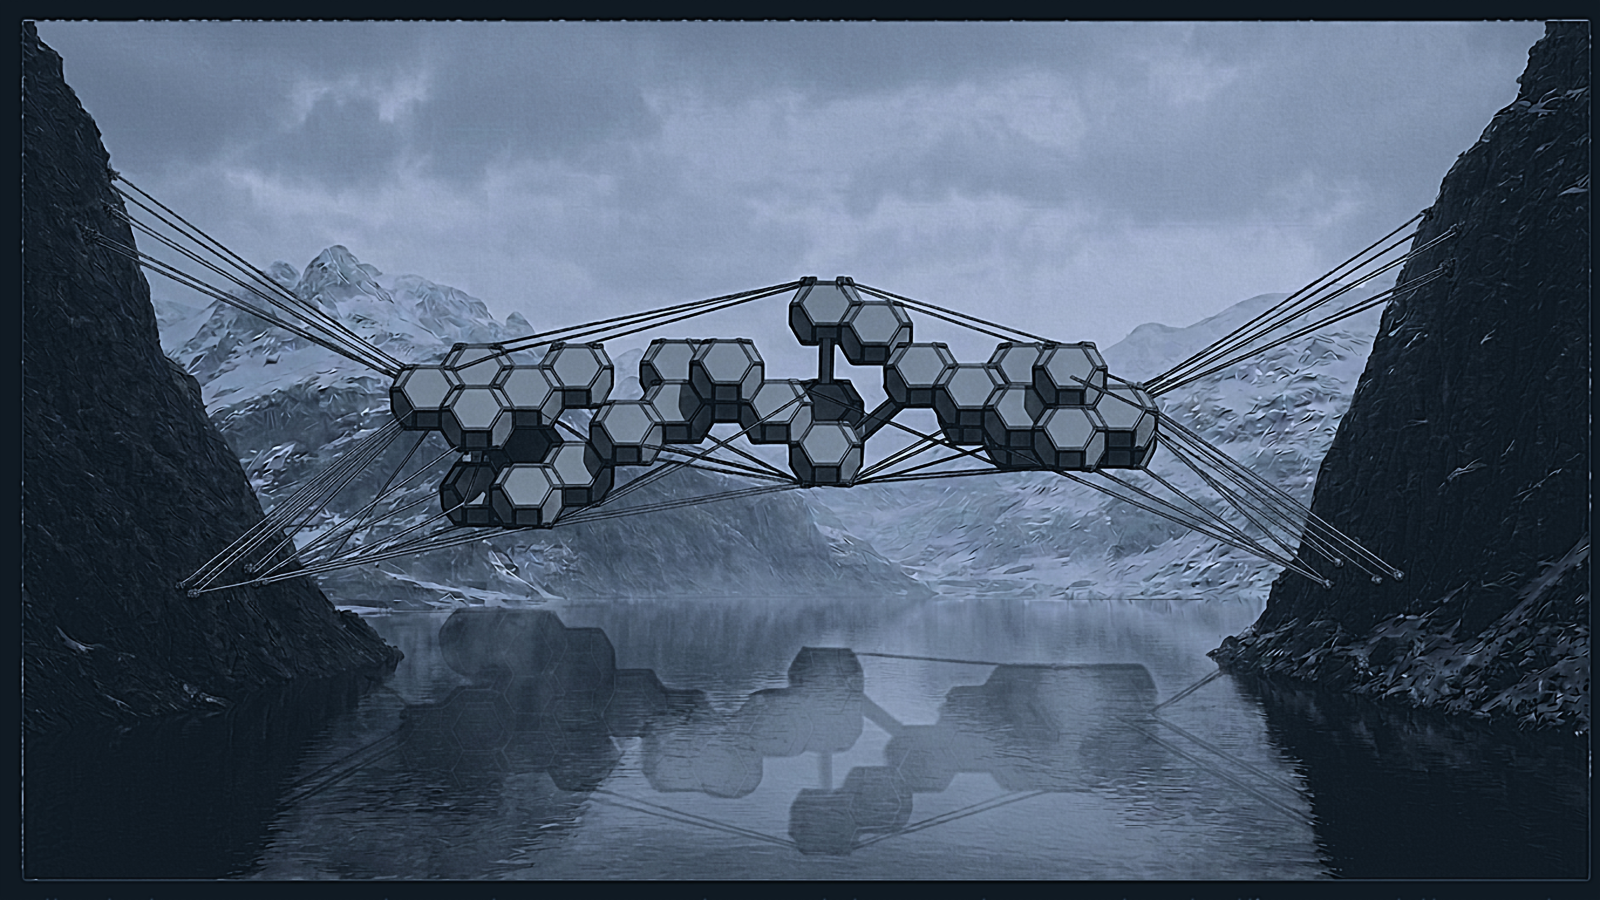
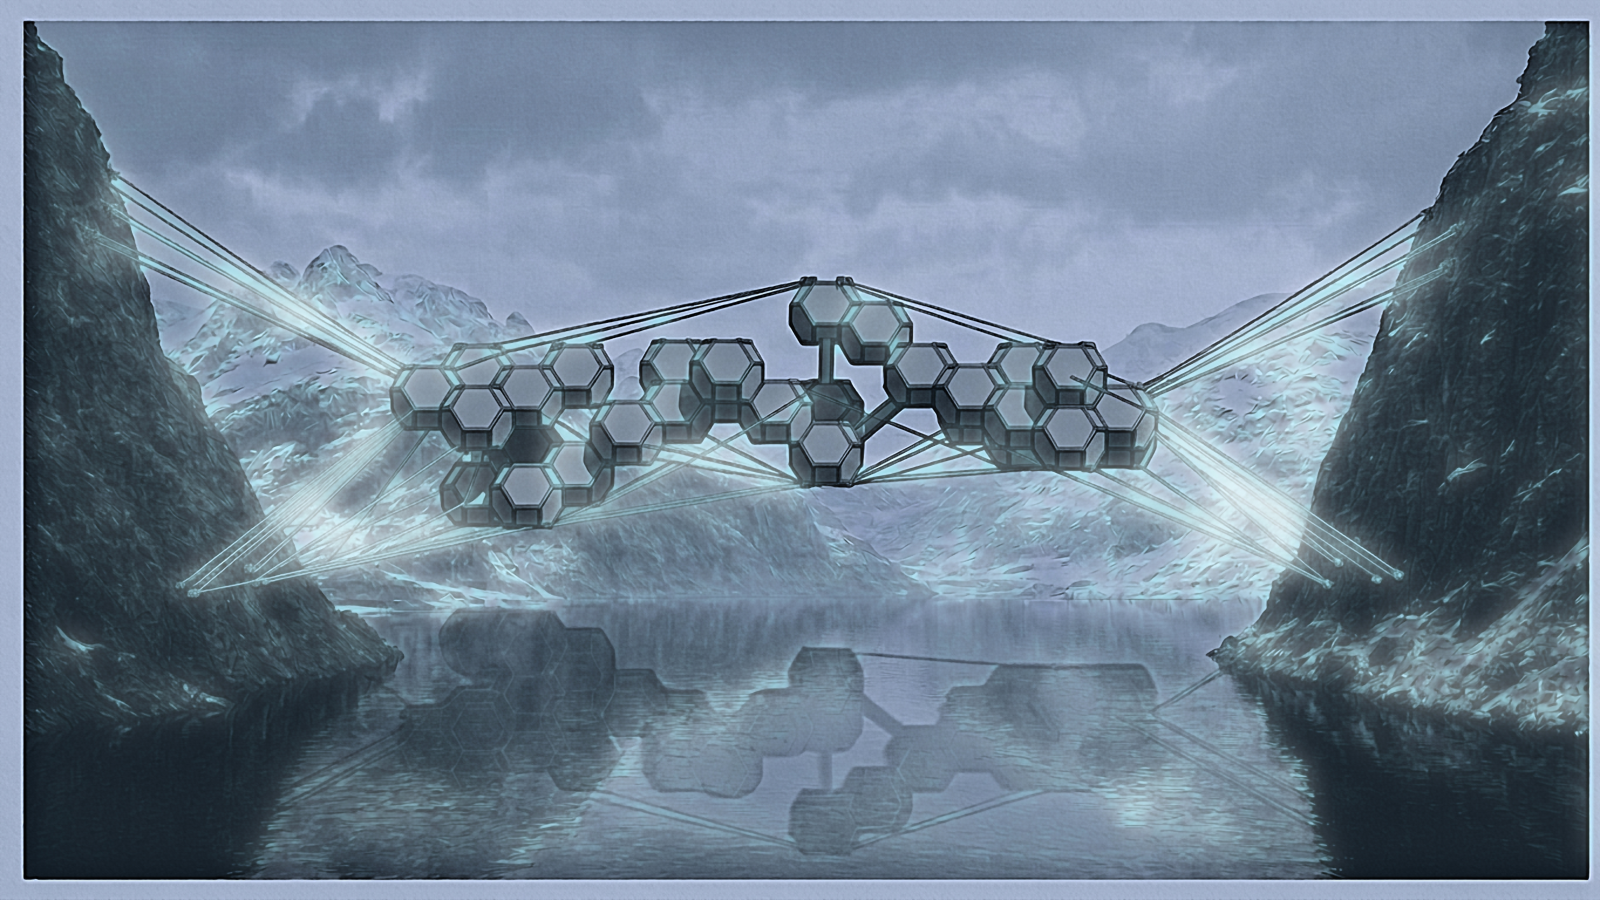
Restore glacial cable glow on 16K render 3
- cinematic grade had desaturated the cable away (no cable glow); re-added
  cable_glow_sel cyan/emerald bioluminescent cable bloom on top of the
  cinematic grade + detail boost, then re-upscaled to 16K
- 16K PNG/JPEG regenerated with the glowing cable; adds style_cable.py

diff --git a/style_cable.py b/style_cable.py
@@ -1,0 +1,22 @@
+#!/usr/bin/env python3
+"""Restore the 'glacial cable' (cyan/emerald bioluminescent cable glow) on
+render 3, on top of the approved cinematic grade + detail boost."""
+import cv2
+from style_render import load_rgb_alpha, composite_on_void, CINEMATIC, detail_boost
+from enhance import render_grade, cable_glow_sel
+
+SRC = "render 3.png"
+OUT = "renders/render 3.glacial-cable.png"
+
+# cable glow params (tuned for a clear but controlled icy cable bloom)
+GLOW = dict(amt=1.05, weight=0.62, bloom=11)
+
+rgb, alpha = load_rgb_alpha(SRC)
+comp = composite_on_void(rgb, alpha)
+out = render_grade(comp, CINEMATIC)
+out = detail_boost(out, comp, strength=0.85)
+out = cable_glow_sel(out, GLOW)
+
+bgr = cv2.cvtColor(out, cv2.COLOR_RGB2BGR)
+cv2.imwrite(OUT, bgr)
+print(f"wrote {OUT}  {bgr.shape[1]}x{bgr.shape[0]}")
